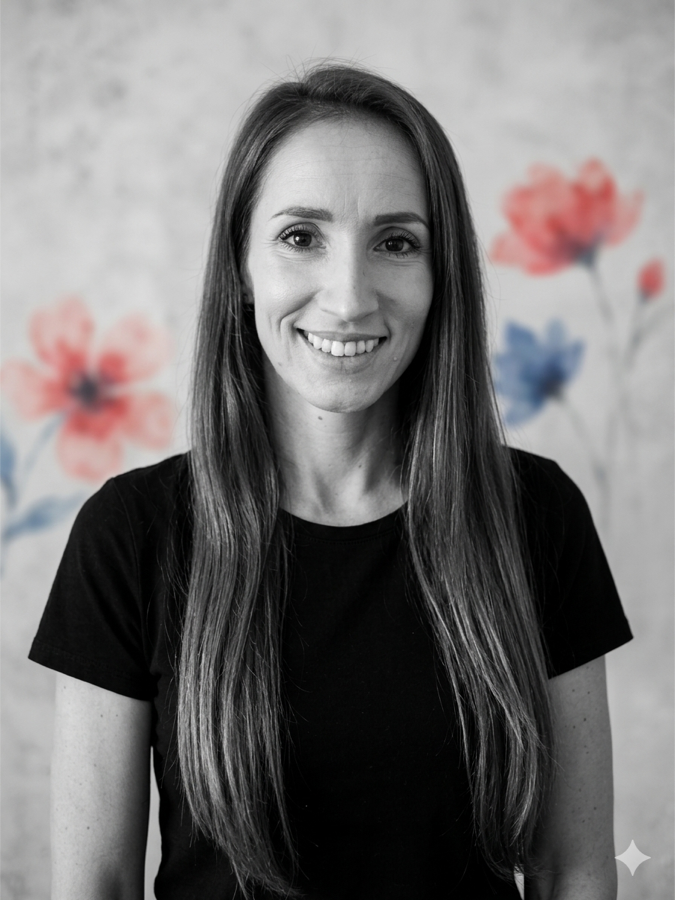
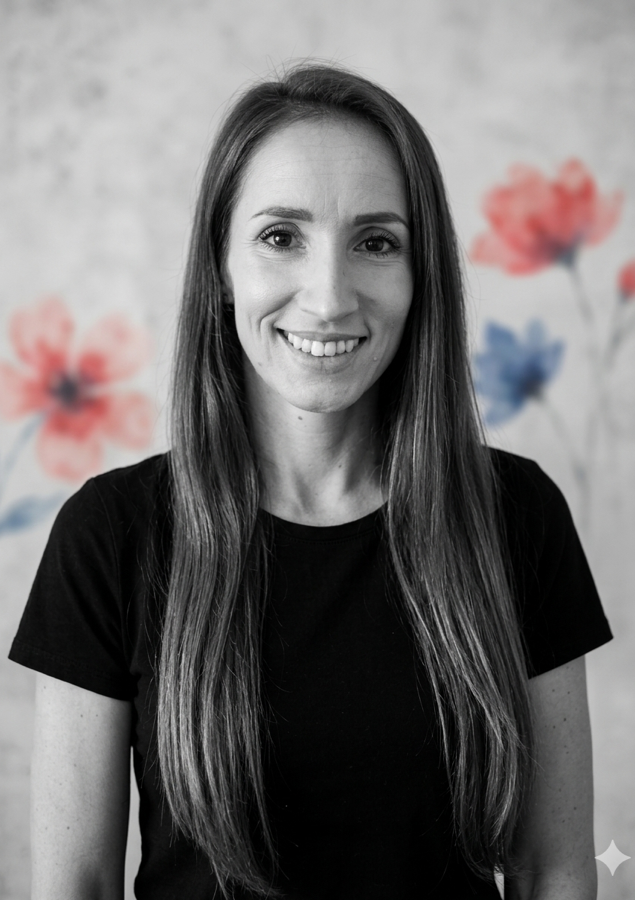
d

Changed region(s): [[0.0, 0.0933, 0.4787, 1.0], [0.5386, 0.0933, 1.0, 1.0], [0.0598, 0.84, 0.0898, 0.8711]]

diff --git a/index.html b/index.html
@@ -25,10 +25,10 @@
   <link href="https://fonts.googleapis.com/css2?family=Special+Elite&family=Inter:wght@300;400;500;600&family=DM+Sans:wght@300;400;500&family=Homemade+Apple&display=swap" rel="stylesheet">
 
   <!-- CSS -->
-  <link rel="stylesheet" href="css/main.css?v=22">
-  <link rel="stylesheet" href="css/animations.css?v=22">
-  <link rel="stylesheet" href="css/components.css?v=22">
-  <link rel="stylesheet" href="css/responsive.css?v=22">
+  <link rel="stylesheet" href="css/main.css?v=23">
+  <link rel="stylesheet" href="css/animations.css?v=23">
+  <link rel="stylesheet" href="css/components.css?v=23">
+  <link rel="stylesheet" href="css/responsive.css?v=23">
 </head>
 <body>
 
@@ -175,7 +175,7 @@
     <section class="section" id="projekty" aria-labelledby="projektySekcia">
       <div class="container">
 
-        <div class="portfolio-section__header section-heading reveal">
+        <div class="portfolio-section__header section-heading section-heading--branch reveal">
           <span class="section-heading__label">Vybrané projekty</span>
           <h2 id="projektySekcia">Vybrané projekty.</h2>
         </div>
@@ -335,7 +335,7 @@
         <div class="about-section__inner">
 
           <div class="about-section__text-col">
-            <div class="section-heading reveal">
+            <div class="section-heading section-heading--branch reveal">
               <span class="section-heading__label">O mne</span>
               <h2 id="oMneSekcia">Kto som.</h2>
             </div>
@@ -675,7 +675,7 @@
     <section class="section section--off-white" id="atelier" aria-labelledby="atelierNadpis">
       <div class="container">
 
-        <div class="atelier-preview__header section-heading reveal">
+        <div class="atelier-preview__header section-heading section-heading--branch reveal">
           <span class="section-heading__label">Tradičné umenie</span>
           <h2 id="atelierNadpis">Ateliér.</h2>
           <p class="section-tagline">Umenie, z ktorého vychádza moja digitálna tvorba.</p>
@@ -983,6 +983,7 @@
 
         <div class="footer__brand">
           <span class="footer__logo">Anna Lockwoodová</span>
+          <span class="footer__branch" aria-hidden="true"></span>
           <span class="footer__brand-role">Web design and art</span>
 
           <div class="footer__social">

diff --git a/css/components.css b/css/components.css
@@ -2193,3 +2193,41 @@
 .section-heading h2 {
   margin-bottom: 0;
 }
+
+/* ─── Ratolesť — organický ornament pod vybrané labely sekcií ───
+   Zobrazuje sa len tam kde .section-heading--branch je použité.
+   Transparentná plocha okolo vetvy sa stráca (nezaberá vizuálny
+   priestor), preto negatívna spodná medzera h2 pritiahne blízko. */
+.section-heading--branch .section-heading__label {
+  margin-bottom: 0;
+}
+
+.section-heading--branch .section-heading__label::after {
+  content: '';
+  display: block;
+  width: 210px;
+  height: 105px;
+  background: url('../images/decorations/branch.webp')
+    left -50px / 210px 210px no-repeat;
+  opacity: 0.62;
+  transform: rotate(-2deg);
+  transform-origin: left center;
+  margin-bottom: -42px;
+  margin-left: -10px;
+  pointer-events: none;
+}
+
+/* ─── Footer ratolesť — vedľa podpisu ─── */
+.footer__branch {
+  display: block;
+  width: 160px;
+  height: 80px;
+  background: url('../images/decorations/branch.webp')
+    right -38px / 160px 160px no-repeat;
+  opacity: 0.45;
+  transform: rotate(178deg) translateX(8px); /* zrkadlová, smeruje doľava */
+  transform-origin: right center;
+  margin-top: -12px;
+  margin-bottom: 4px;
+  pointer-events: none;
+}
